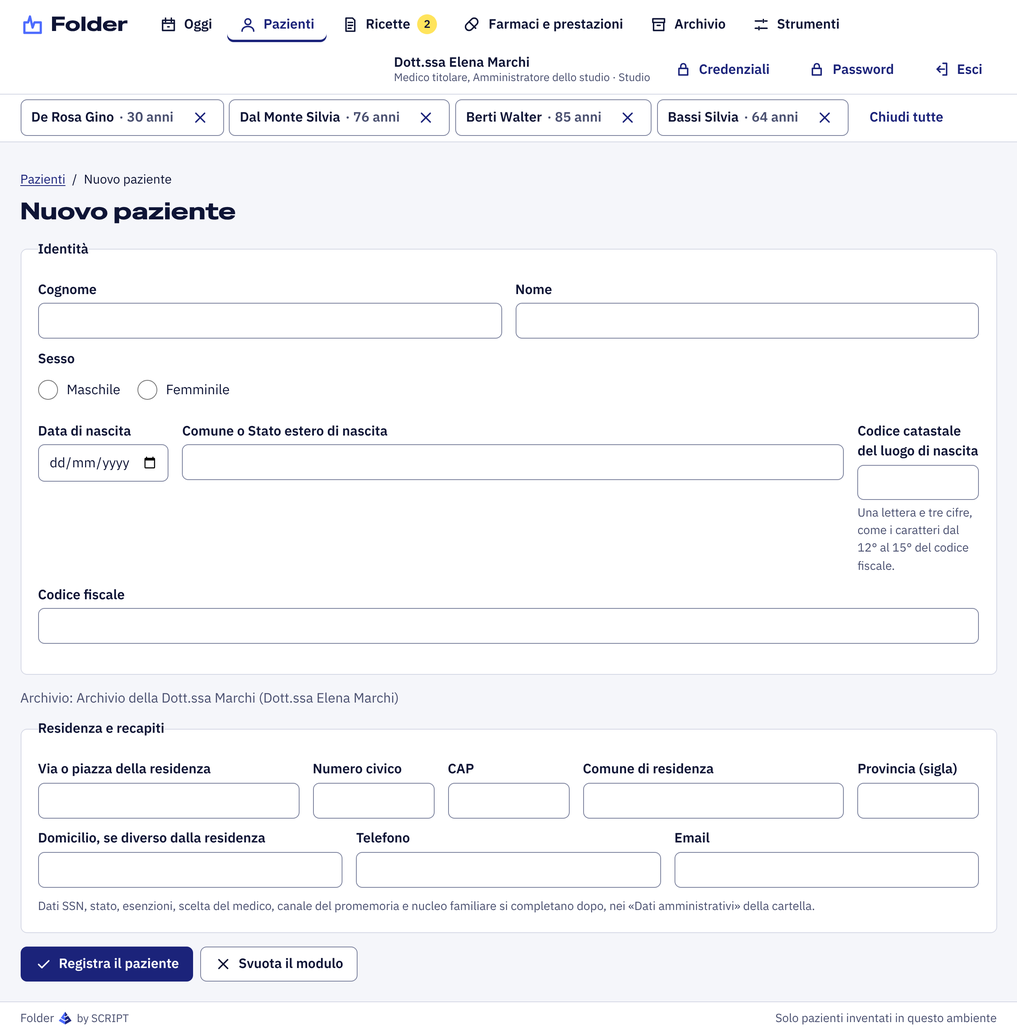
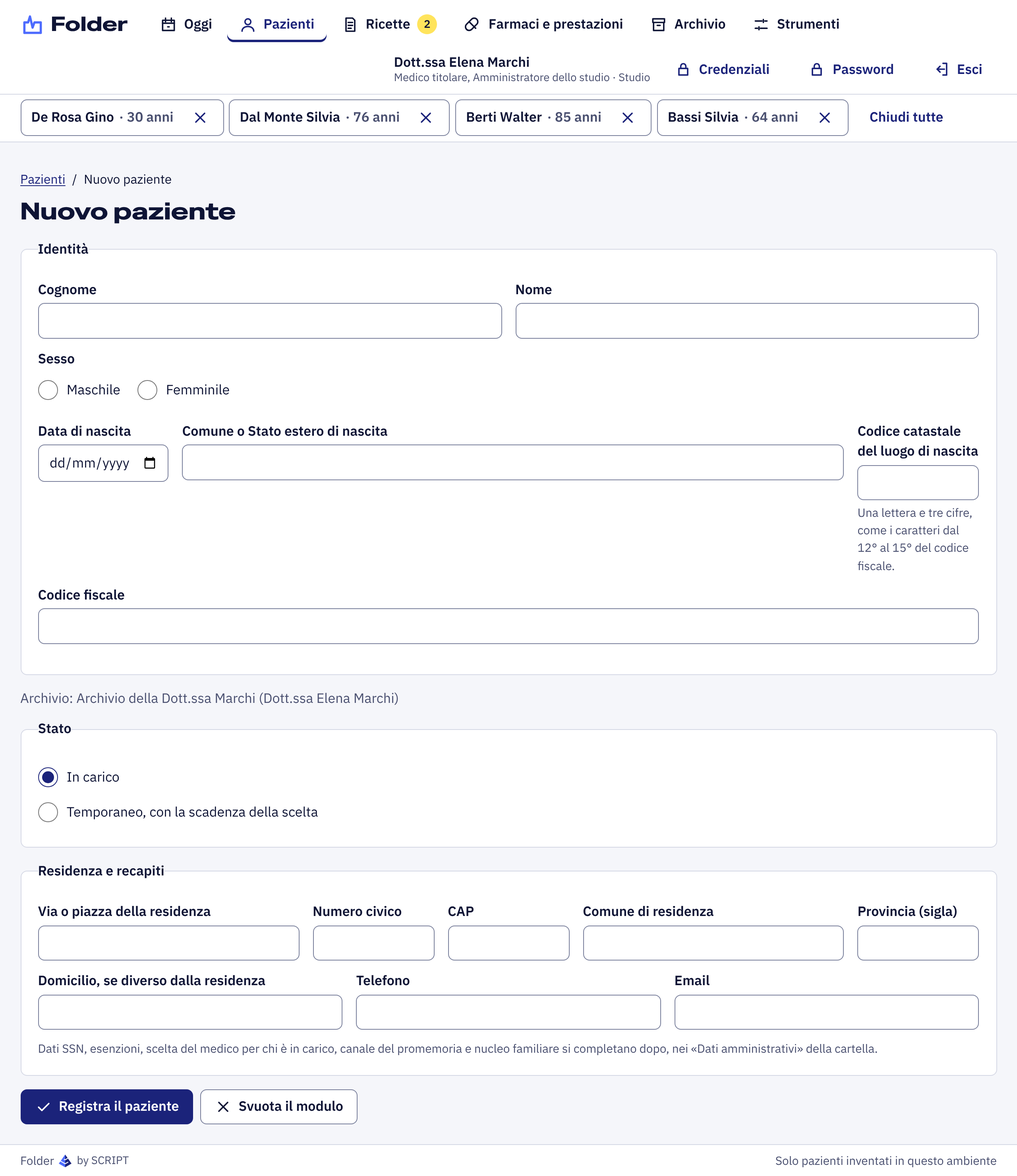
D199: schermate, sabotaggi e documenti; domande per la fermata
- Schermate nuove: 63 (nuovi assistiti in Oggi), 64 (nuovo paziente temporaneo), 65 (ricetta per
  un paziente deceduto); rifatte la 07 (regole 2026-11-19.2) e la 44 (modulo con lo stato).
- Trentasette sabotaggi di D199, tutti rossi con il guasto e verdi dopo il ripristino, nel registro.
- docs/avanzamento.md: sezione di D199, domande per la prossima fermata; docs/interfaccia.md,
  CLAUDE.md e D199 aggiornati.
- Prove complete: 1569 TypeScript, sync/ e lint verdi.

Claude-Session: https://claude.ai/code/session_01Tv4Yo344qXk13ZKY4SDVSw

diff --git a/apps/api/test/e2e/schermate.ts b/apps/api/test/e2e/schermate.ts
@@ -24,6 +24,7 @@ import { buildApp } from '../../src/app';
 import { loadConfig } from '../../src/config';
 import { referenceUpdatesFromConfig } from '../../src/reference/updates-service';
 import { createDatabase, createPool } from '../../src/db/client';
+import { DEMO_REFERENCE_DATE } from '../../src/db/demo';
 import { studioDate } from '../../src/prescriptions/rules-check';
 import { base32Decode } from '../../src/security/base32';
 import { totp } from '../../src/security/totp';
@@ -794,6 +795,90 @@ try {
     .getByText(/AURA segnala il decesso/)
     .waitFor();
   await shot(page, '61-variazioni-da-aura-in-oggi', true);
+
+  // D199: due assistiti inventati scelgono il medico dimostrativo in AURA, uno con una scelta
+  // temporanea; la notifica li porta fra i nuovi assistiti nella pagina Oggi.
+  const doctorCf = (
+    await db.execute<{ cf: string }>(sql`
+      select fiscal_code as cf from doctor_profile where regional_code = 'DEMO-0001'`)
+  ).rows[0]!.cf;
+  const today = studioDate(new Date());
+  const newOnes = generatePatients({
+    seed: 'schermate-nuovi-assistiti',
+    count: 2,
+    minAge: 18,
+    referenceDate: DEMO_REFERENCE_DATE,
+  });
+  for (const [i, n] of newOnes.entries()) {
+    const id = aura.register({
+      fiscalCode: n.fiscalCode,
+      lastName: n.lastName.toUpperCase(),
+      firstName: n.firstName.toUpperCase(),
+      birthDate: n.birthDate,
+      exemptions: [],
+      choices: [],
+      registry: {
+        ...EMPTY_AURA_REGISTRY,
+        residenceTown: 'COMUNE DIMOSTRATIVO',
+        asl: 'ASL DIMOSTRATIVA',
+      },
+    });
+    aura.setChoice(id, {
+      doctorFiscalCode: doctorCf,
+      chosenOn: today,
+      expiresOn: i === 1 ? studioDate(new Date(Date.now() + 120 * 86_400_000)) : null,
+      endedOn: null,
+      endReason: null,
+    });
+  }
+  const signalled = async () =>
+    Number(
+      (
+        await db.execute<{ n: string }>(
+          sql`select count(*)::text as n from aura_new_patient where status = 'da_registrare'`,
+        )
+      ).rows[0]!.n,
+    );
+  for (let i = 0; i < 100 && (await signalled()) < 2; i++)
+    await new Promise((r) => setTimeout(r, 50));
+  await page.goto(base);
+  const newRegion = page.getByRole('region', { name: 'Nuovi assistiti in AURA' });
+  await newRegion.getByRole('table', { name: 'Nuovi assistiti da registrare' }).waitFor();
+  await newRegion.scrollIntoViewIfNeeded();
+  await shot(page, '63-nuovi-assistiti-in-oggi');
+
+  // D199: il paziente temporaneo si registra in un passo solo, con la scadenza della scelta.
+  const [temporary] = generatePatients({
+    seed: 'schermate-temporaneo',
+    count: 1,
+    minAge: 18,
+    referenceDate: DEMO_REFERENCE_DATE,
+  });
+  await page.goto(`${base}/pazienti/nuovo`);
+  await page.getByRole('heading', { level: 1, name: 'Nuovo paziente' }).waitFor();
+  await page.getByLabel('Cognome').fill(temporary!.lastName);
+  await page.getByLabel('Nome', { exact: true }).fill(temporary!.firstName);
+  await page.getByLabel(temporary!.sex === 'M' ? 'Maschile' : 'Femminile').check();
+  await page.getByLabel('Data di nascita').fill(temporary!.birthDate);
+  await page.getByLabel('Codice catastale del luogo di nascita').fill(temporary!.birthPlace.code);
+  await page.getByLabel('Codice fiscale').fill(temporary!.fiscalCode);
+  await page.getByLabel('Temporaneo, con la scadenza della scelta').check();
+  await page
+    .getByLabel('Scadenza della scelta', { exact: true })
+    .fill(studioDate(new Date(Date.now() + 180 * 86_400_000)));
+  await page.getByRole('group', { name: 'Stato' }).scrollIntoViewIfNeeded();
+  await shot(page, '64-nuovo-paziente-temporaneo');
+
+  // D199: confermato il decesso segnalato da AURA, la ricetta non si fa (R19).
+  await page.goto(`${base}/pazienti/${other.id}/amministrazione#aura`);
+  await auraSection.getByRole('button', { name: 'Conferma il decesso' }).click();
+  await auraSection
+    .getByText(/decesso/i)
+    .first()
+    .waitFor();
+  await page.goto(`${base}/pazienti/${other.id}/ricetta`);
+  await page.getByText(/la ricetta non si fa/).waitFor();
+  await shot(page, '65-ricetta-paziente-deceduto');
 
   await browser.close();
   await new Promise((ok) => web.close(ok));

diff --git a/docs/avanzamento.md b/docs/avanzamento.md
@@ -606,6 +606,38 @@ Richiesta di Simone del 19/11/2026. Stesso branch.
 
 **Prossimo passo**: fermata con il via all'unione.
 
+### Dopo l'unione della #13 – Nuovi assistiti, paziente temporaneo, stato alla ricetta (D199)
+
+**Fatto**
+
+- **Nuovi assistiti da AURA.** Chi sceglie un medico dello studio e non è ancora nel suo archivio compare nella pagina Oggi, in «Nuovi assistiti in AURA», per chi può registrare pazienti in quell'archivio.
+  - «Registra» crea il paziente con un clic dai dati di AURA, con i controlli di «Nuovo paziente»: sesso e luogo di nascita dal codice fiscale, residenza e ASL che passano i controlli, temporaneo se la scelta scade. Poi il collegamento con AURA porta esenzioni e scelte.
+  - «Non registrare» lo toglie dall'elenco finché AURA non manda una scelta nuova.
+  - Se il paziente c'è già nello studio si collega e si allinea; con la scelta cessata o il decesso l'assistito esce dall'elenco da solo.
+  - Tabella `aura_new_patient` (migrazione 0035), con storico e senza cancellazioni, nell'esportazione dell'archivio.
+- **Paziente temporaneo in un passo solo.** In «Nuovo paziente» lo stato si sceglie; per il temporaneo servono le date della scelta del titolare, che si registra insieme al paziente.
+- **Stato del paziente alla ricetta**, versione 2026-11-19.2 delle regole:
+  - R19: per un deceduto la ricetta non si fa (bozza e ripetizione rifiutate, blocco all'invio, messaggio nella pagina della ricetta);
+  - R20: per un revocato, o un temporaneo senza una scelta in corso, serve un motivo, che resta nel controllo;
+  - il temporaneo con la scelta che vale non dà avvisi, fino al giorno della scadenza compreso.
+- **Il giro di ogni notte comprende anche i temporanei.**
+- **Un difetto evitato prima dell'uso**: nella prima versione il secondo «Registra» aspettava il blocco dell'assistito tenendo occupata una connessione al database; con molte richieste insieme le connessioni potevano finire. Ora il blocco non si aspetta, e chi arriva secondo riceve «Registrazione già in corso».
+- **Prove**:
+  - `apps/api/test/aura-nuovi-assistiti.test.ts` (11);
+  - `apps/api/test/stato-paziente-ricetta.test.ts` (4);
+  - due prove nuove nel pannello amministrativo;
+  - le regole R19 e R20 in `packages/rules`;
+  - `apps/web/test/stato-paziente.test.tsx` (3) e due prove nuove in `apps/web/test/aura.test.tsx`;
+  - nel browser, il paziente temporaneo e i nuovi assistiti, con il controllo di accessibilità.
+
+  Lo scenario delle prove tiene in carico il paziente con la cartella piena: con R19 e R20 uno stato dato a caso avrebbe reso instabili le prove delle ricette. Trentasette sabotaggi, tutti rossi con il guasto e verdi dopo il ripristino.
+
+**Non fatto**: il giro di notte non trova i nuovi assistiti senza notifica (servirebbe l'elenco degli assistiti di un medico, dalle specifiche AURA--SER-01); un paziente che c'è già in un altro archivio dello studio non cambia archivio (domanda per la fermata).
+
+**Non provato**: il servizio vero di AURA, come per D197; R19 e R20 vanno validate dalla Dr.ssa Rocca, come le altre regole.
+
+**Prossimo passo**: fermata con il via all'unione.
+
 ## Richieste di Simone tra le fermate (18/11/2026)
 
 Annotate come decisioni per la tappa 6:
@@ -837,7 +869,11 @@ Durante la tappa 11 (terzo giro):
 
 ## Domande per la prossima fermata
 
-Da scrivere alla fine del blocco di D199.
+Annotate dopo l'unione della #13, da fare con il pulsante:
+
+1. **Via all'unione della pull request di D199** (nuovi assistiti da AURA, paziente temporaneo, stato del paziente alla ricetta).
+2. **Paziente che cambia medico dentro lo studio**: in medicina di gruppo, se un paziente sceglie in AURA un altro medico dello studio, oggi resta nell'archivio di prima e si allinea soltanto. Proposta: un avviso nella pagina Oggi ai due medici, e lo spostamento lo decide il titolare di prima. Alternative: lo sposta il programma da solo; resta com'è.
+3. **Verifiche alla fine**: restano quelle della Dr.ssa Rocca (ICD-9-CM, catalogo regionale, allegati 8 e 7), più R19 e R20.
 
 ## Risposte della fermata dopo l'unione della #12 (19/11/2026)
 
@@ -1979,3 +2015,40 @@ Ogni controllo nuovo viene rotto apposta (`scripts/sabotaggio.sh`), deve diventa
 | D198: in Oggi solo i pazienti visibili                                                                        | aura/service.ts: anagrafiche di tutti gli archivi                                                                         | Rosso, poi verde                                                                                                                                                                                                                                                                                                 |
 | D198: i pulsanti solo a chi scrive                                                                            | AuraSection.tsx: pulsanti per chi legge                                                                                   | Rosso, poi verde                                                                                                                                                                                                                                                                                                 |
 | D198: il decesso in evidenza in Oggi                                                                          | AuraSection.tsx: primo decesso non mostrato                                                                               | Rosso, poi verde                                                                                                                                                                                                                                                                                                 |
+| D199: R19 blocca il paziente deceduto                                                                         | rules.ts: R19 non dice nulla                                                                                              | Rosso, poi verde                                                                                                                                                                                                                                                                                                 |
+| D199: R19 è un blocco, non un avviso                                                                          | regole-2026-11-19-2.json: R19 «avvisa»                                                                                    | Rosso, poi verde                                                                                                                                                                                                                                                                                                 |
+| D199: temporaneo con la scelta che vale, nessun avviso                                                        | rules.ts: R20 avvisa anche con la scelta in corso                                                                         | Rosso, poi verde                                                                                                                                                                                                                                                                                                 |
+| D199: la scelta vale fino alla scadenza compresa                                                              | rules.ts: scadenza esclusa                                                                                                | Rosso, poi verde                                                                                                                                                                                                                                                                                                 |
+| D199: con il motivo R20 lascia procedere e lo registra                                                        | rules.ts: motivo ignorato                                                                                                 | Rosso, poi verde                                                                                                                                                                                                                                                                                                 |
+| D199: R20 per il paziente revocato                                                                            | rules.ts: R20 solo per i temporanei                                                                                       | Rosso, poi verde                                                                                                                                                                                                                                                                                                 |
+| D199: le scelte annullate non contano                                                                         | rules-check.ts: scelte annullate comprese                                                                                 | Rosso, poi verde                                                                                                                                                                                                                                                                                                 |
+| D199: lo stato del paziente arriva alle regole                                                                | rules-check.ts: stato non passato                                                                                         | Rosso, poi verde                                                                                                                                                                                                                                                                                                 |
+| D199: nessuna bozza per un deceduto                                                                           | prescriptions/service.ts: controllo tolto dalla bozza                                                                     | Rosso, poi verde                                                                                                                                                                                                                                                                                                 |
+| D199: nessuna ripetizione per un deceduto                                                                     | prescriptions/service.ts: controllo tolto dalla ripetizione                                                               | Rosso, poi verde                                                                                                                                                                                                                                                                                                 |
+| D199: la pagina della ricetta dice il decesso                                                                 | PrescriptionEditor.tsx: blocco mai mostrato                                                                               | Rosso, poi verde                                                                                                                                                                                                                                                                                                 |
+| D199: la testata con la data del decesso                                                                      | RecordPage.tsx: data non mostrata                                                                                         | Rosso, poi verde                                                                                                                                                                                                                                                                                                 |
+| D199: il temporaneo vuole la scadenza                                                                         | patients/admin.ts: controllo rovesciato                                                                                   | Rosso, poi verde                                                                                                                                                                                                                                                                                                 |
+| D199: la scelta solo per il temporaneo                                                                        | patients/admin.ts: scelta accettata con «in carico»                                                                       | Rosso, poi verde                                                                                                                                                                                                                                                                                                 |
+| D199: la scelta è del titolare dell'archivio                                                                  | patients/admin.ts: scelta di chi registra                                                                                 | Rosso, poi verde                                                                                                                                                                                                                                                                                                 |
+| D199: il modulo manda le date della scelta                                                                    | NewPatientPage.tsx: date non mandate                                                                                      | Rosso, poi verde                                                                                                                                                                                                                                                                                                 |
+| D199: paziente già nello studio, si collega                                                                   | aura/service.ts: entra lo stesso fra i nuovi                                                                              | Rosso, poi verde                                                                                                                                                                                                                                                                                                 |
+| D199: scelta cessata, fuori dall'elenco                                                                       | aura/service.ts: cessazione ignorata                                                                                      | Rosso, poi verde                                                                                                                                                                                                                                                                                                 |
+| D199: decesso in AURA, fuori dall'elenco                                                                      | aura/service.ts: decesso ignorato                                                                                         | Rosso, poi verde                                                                                                                                                                                                                                                                                                 |
+| D199: «Non registrare» non si ripropone                                                                       | aura/service.ts: si ripropone sempre                                                                                      | Rosso, poi verde                                                                                                                                                                                                                                                                                                 |
+| D199: nuovi assistiti solo degli archivi dove si scrive                                                       | aura/service.ts: filtro degli archivi tolto                                                                               | Rosso, poi verde                                                                                                                                                                                                                                                                                                 |
+| D199: il giro di notte con i temporanei                                                                       | aura/service.ts: temporanei tolti                                                                                         | Rosso, poi verde                                                                                                                                                                                                                                                                                                 |
+| D199: la lettura dell'elenco nel registro                                                                     | aura-routes.ts: lettura non registrata                                                                                    | Rosso, poi verde                                                                                                                                                                                                                                                                                                 |
+| D199: permesso prima di registrare o scartare                                                                 | aura-routes.ts: permesso sempre dato                                                                                      | Rosso, poi verde                                                                                                                                                                                                                                                                                                 |
+| D199: un «Registra» alla volta                                                                                | aura-routes.ts: blocco tolto                                                                                              | Rosso, poi verde                                                                                                                                                                                                                                                                                                 |
+| D199: il paziente registrato si collega ad AURA                                                               | aura-routes.ts: collegamento tolto                                                                                        | Rosso, poi verde                                                                                                                                                                                                                                                                                                 |
+| D199: registrato a mano nel frattempo, fuori dall'elenco                                                      | aura-routes.ts: resta da registrare                                                                                       | Rosso, poi verde                                                                                                                                                                                                                                                                                                 |
+| D199: scelta che scade, paziente temporaneo                                                                   | new-patients.ts: stato non dato                                                                                           | Rosso, poi verde                                                                                                                                                                                                                                                                                                 |
+| D199: sesso dal codice fiscale                                                                                | new-patients.ts: sesso rovesciato                                                                                         | Rosso, poi verde                                                                                                                                                                                                                                                                                                 |
+| D199: dati di AURA che non passano i controlli restano fuori                                                  | new-patients.ts: valori senza controllo                                                                                   | Rosso, poi verde                                                                                                                                                                                                                                                                                                 |
+| D199: nuovi assistiti nell'esportazione                                                                       | export.ts: tabella tolta                                                                                                  | Rosso, poi verde                                                                                                                                                                                                                                                                                                 |
+| D199: storico di ogni cambio dell'assistito                                                                   | migrazione 0035: storico solo all'inserimento                                                                             | Rosso, poi verde                                                                                                                                                                                                                                                                                                 |
+| D199: righe dei nuovi assistiti non cancellabili                                                              | migrazione 0035: cancellazione ammessa                                                                                    | Rosso, poi verde                                                                                                                                                                                                                                                                                                 |
+| D199: «registrato» solo con il paziente                                                                       | migrazione 0035: vincolo tolto                                                                                            | Rosso, poi verde                                                                                                                                                                                                                                                                                                 |
+| D199: il pulsante dice di chi si tratta                                                                       | AuraSection.tsx: «Registra» senza il nome                                                                                 | Rosso, poi verde                                                                                                                                                                                                                                                                                                 |
+| D199: codice fiscale mascherato in Oggi                                                                       | AuraSection.tsx: codice in chiaro                                                                                         | Rosso, poi verde                                                                                                                                                                                                                                                                                                 |
+| D199: l'elenco si ricarica dopo il clic                                                                       | AuraSection.tsx: nessuna ricarica                                                                                         | Rosso, poi verde                                                                                                                                                                                                                                                                                                 |

diff --git a/docs/interfaccia.md b/docs/interfaccia.md
@@ -76,6 +76,9 @@ All'accesso si sceglie un utente del seed (`medico`, `segreteria`, `sostituto`);
 | ![](schermate/60-aura-nei-dati-amministrativi.png)              | AURA nei dati amministrativi: stato del collegamento con simbolo e parola, simulatore dichiarato, «Aggiorna da AURA», ultime variazioni con da dove è partito il controllo (D197)                                                                                                                                       |
 | ![](schermate/61-variazioni-da-aura-in-oggi.png)                | Oggi: il decesso segnalato da AURA in evidenza, da confermare (D198), e le variazioni arrivate negli ultimi sette giorni, dei pazienti che l'utente può vedere (D197)                                                                                                                                                   |
 | ![](schermate/62-anagrafica-da-aura-da-confermare.png)          | Anagrafica diversa in AURA: per ogni dato, quello della cartella e quello di AURA; si usa il dato di AURA o si tiene quello della cartella (D198)                                                                                                                                                                       |
+| ![](schermate/63-nuovi-assistiti-in-oggi.png)                   | Oggi: i nuovi assistiti in AURA, cioè chi ha scelto il medico e non è ancora nel suo archivio, con la scelta e la scadenza della scelta temporanea; «Registra» con un clic, o «Non registrare» (D199)                                                                                                                   |
+| ![](schermate/64-nuovo-paziente-temporaneo.png)                 | Nuovo paziente temporaneo in un passo solo: lo stato e le date della scelta del titolare, con la spiegazione dell'avviso alla ricetta quando la scelta è scaduta (D199)                                                                                                                                                 |
+| ![](schermate/65-ricetta-paziente-deceduto.png)                 | Ricetta per un paziente deceduto: non si fa, la pagina lo dice subito con il rimedio, e la testata porta la data del decesso (R19, D199)                                                                                                                                                                                |
 
 Le schermate si rigenerano con `test/e2e/schermate.ts` (istruzioni in testa al file), su un database appena preparato con il seed.
 

diff --git a/docs/decisioni.md b/docs/decisioni.md
@@ -996,7 +996,7 @@ Prove (servizio, interfaccia, browser con accessibilità) e sabotaggi.
     - Residenza, domicilio, ASL e distretto di AURA, solo i valori che passano i controlli del pannello: gli altri si vedono dopo come differenze da confermare (D198).
     - Stato «temporaneo» se la scelta ha una scadenza.
     - Poi il collegamento con AURA porta esenzioni e scelte, con la fonte «AURA».
-    - Due clic insieme fanno un paziente solo. Un paziente registrato a mano nel frattempo si dice, con il collegamento alla sua cartella, e l'assistito esce dall'elenco.
+    - Due clic insieme fanno un paziente solo: il primo prende il blocco dell'assistito, il secondo non lo aspetta (terrebbe occupata una connessione al database) e riceve «Registrazione già in corso». Un paziente registrato a mano nel frattempo si dice, con il collegamento alla sua cartella, e l'assistito esce dall'elenco.
   - **«Non registrare».** Esce dall'elenco, e la scelta resta nel registro. Non si ripropone finché AURA non manda una scelta nuova (altro medico o altra data).
   - **Esce dall'elenco da solo** quando la scelta non vale più, o AURA dice il decesso.
   - **Dati.** Tabella `aura_new_patient` (migrazione 0035), con lo storico di ogni modifica e il divieto di cancellazione, nell'esportazione dell'archivio (regola 4).

diff --git a/CLAUDE.md b/CLAUDE.md
@@ -139,7 +139,7 @@ Le prove del database vogliono `DATABASE_URL`: senza, falliscono (non si saltano
 - `docs/aft.md`: condivisione del riepilogo tra i medici dell'AFT, con il consenso del paziente (D161).
 - `docs/amministrazione.md`: Strumenti e amministrazione per ruolo, primo avvio, utenti, studio, postazioni, stampa, elenchi (tappa 14, D163).
 - `docs/importazione.md`: importazione da altri programmi con lo smistamento verso i menu, formati, destinazioni, sicurezza (tappa 15, D173).
-- `docs/aura.md`: collegamento con AURA, oggi simulato: quando si controlla, che cosa si allinea, registro, che cosa non è provato (D197).
+- `docs/aura.md`: collegamento con AURA, oggi simulato: quando si controlla, che cosa si allinea, nuovi assistiti, registro, che cosa non è provato (D197–D199).
 
 ## Le tappe
 
